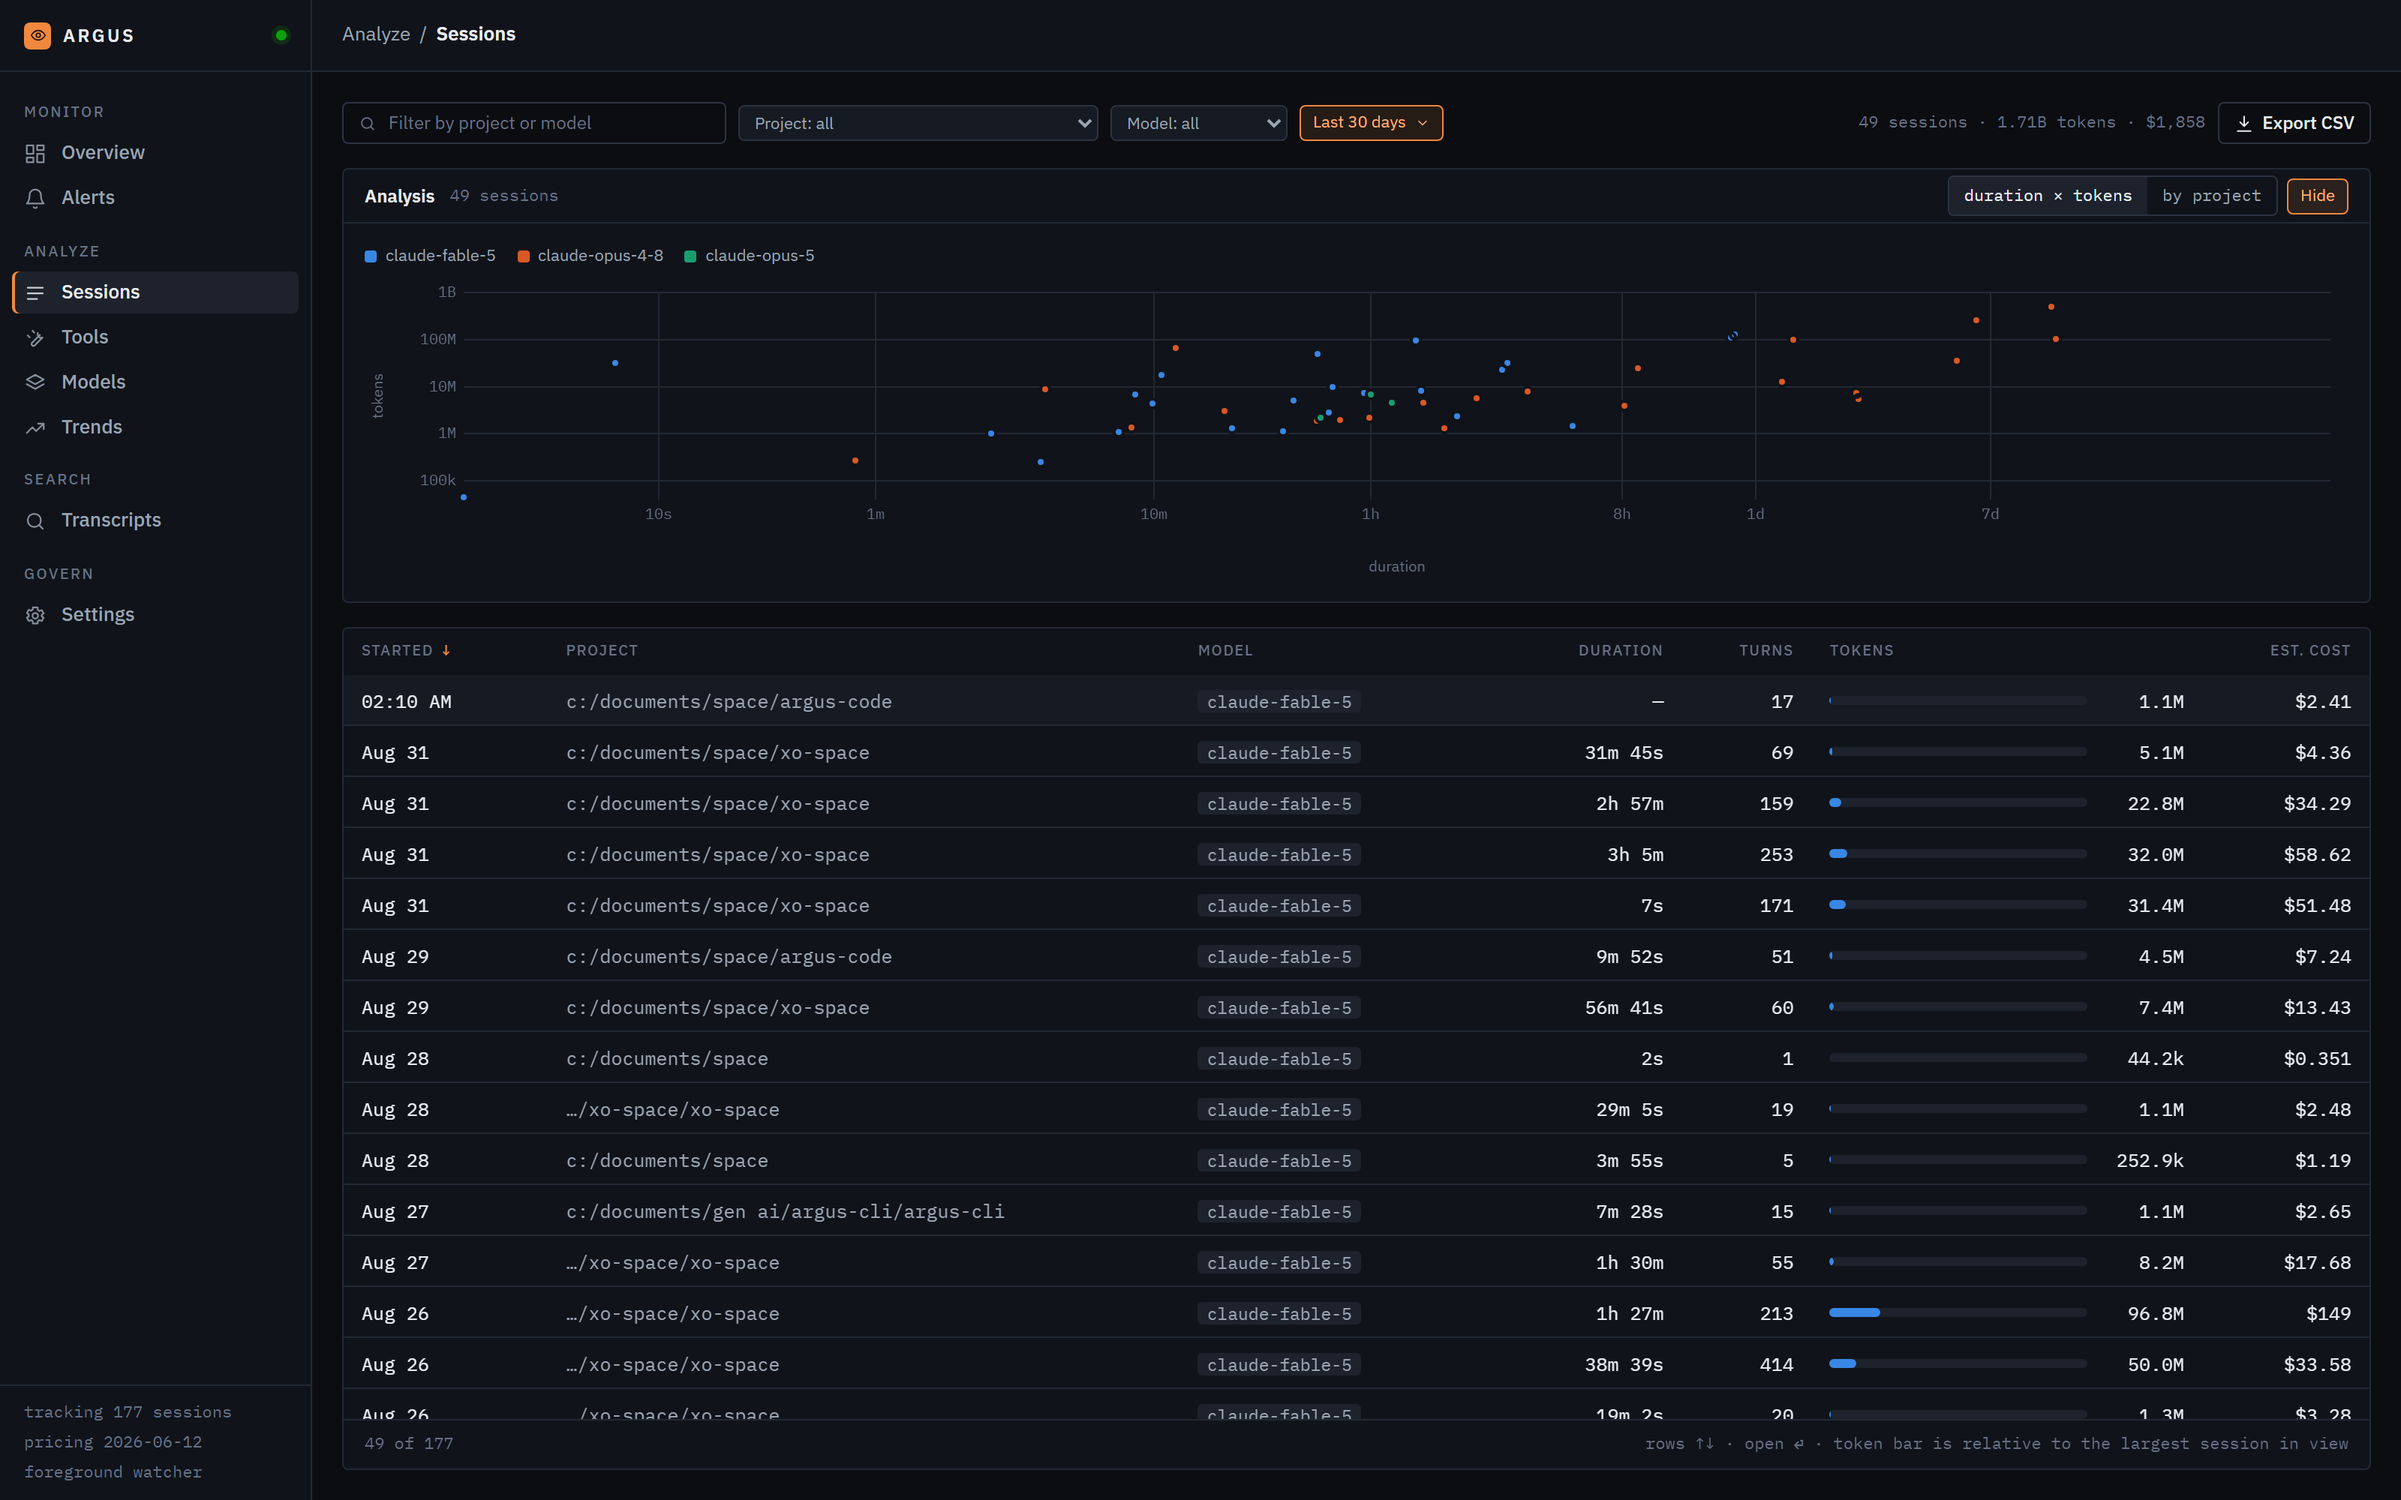
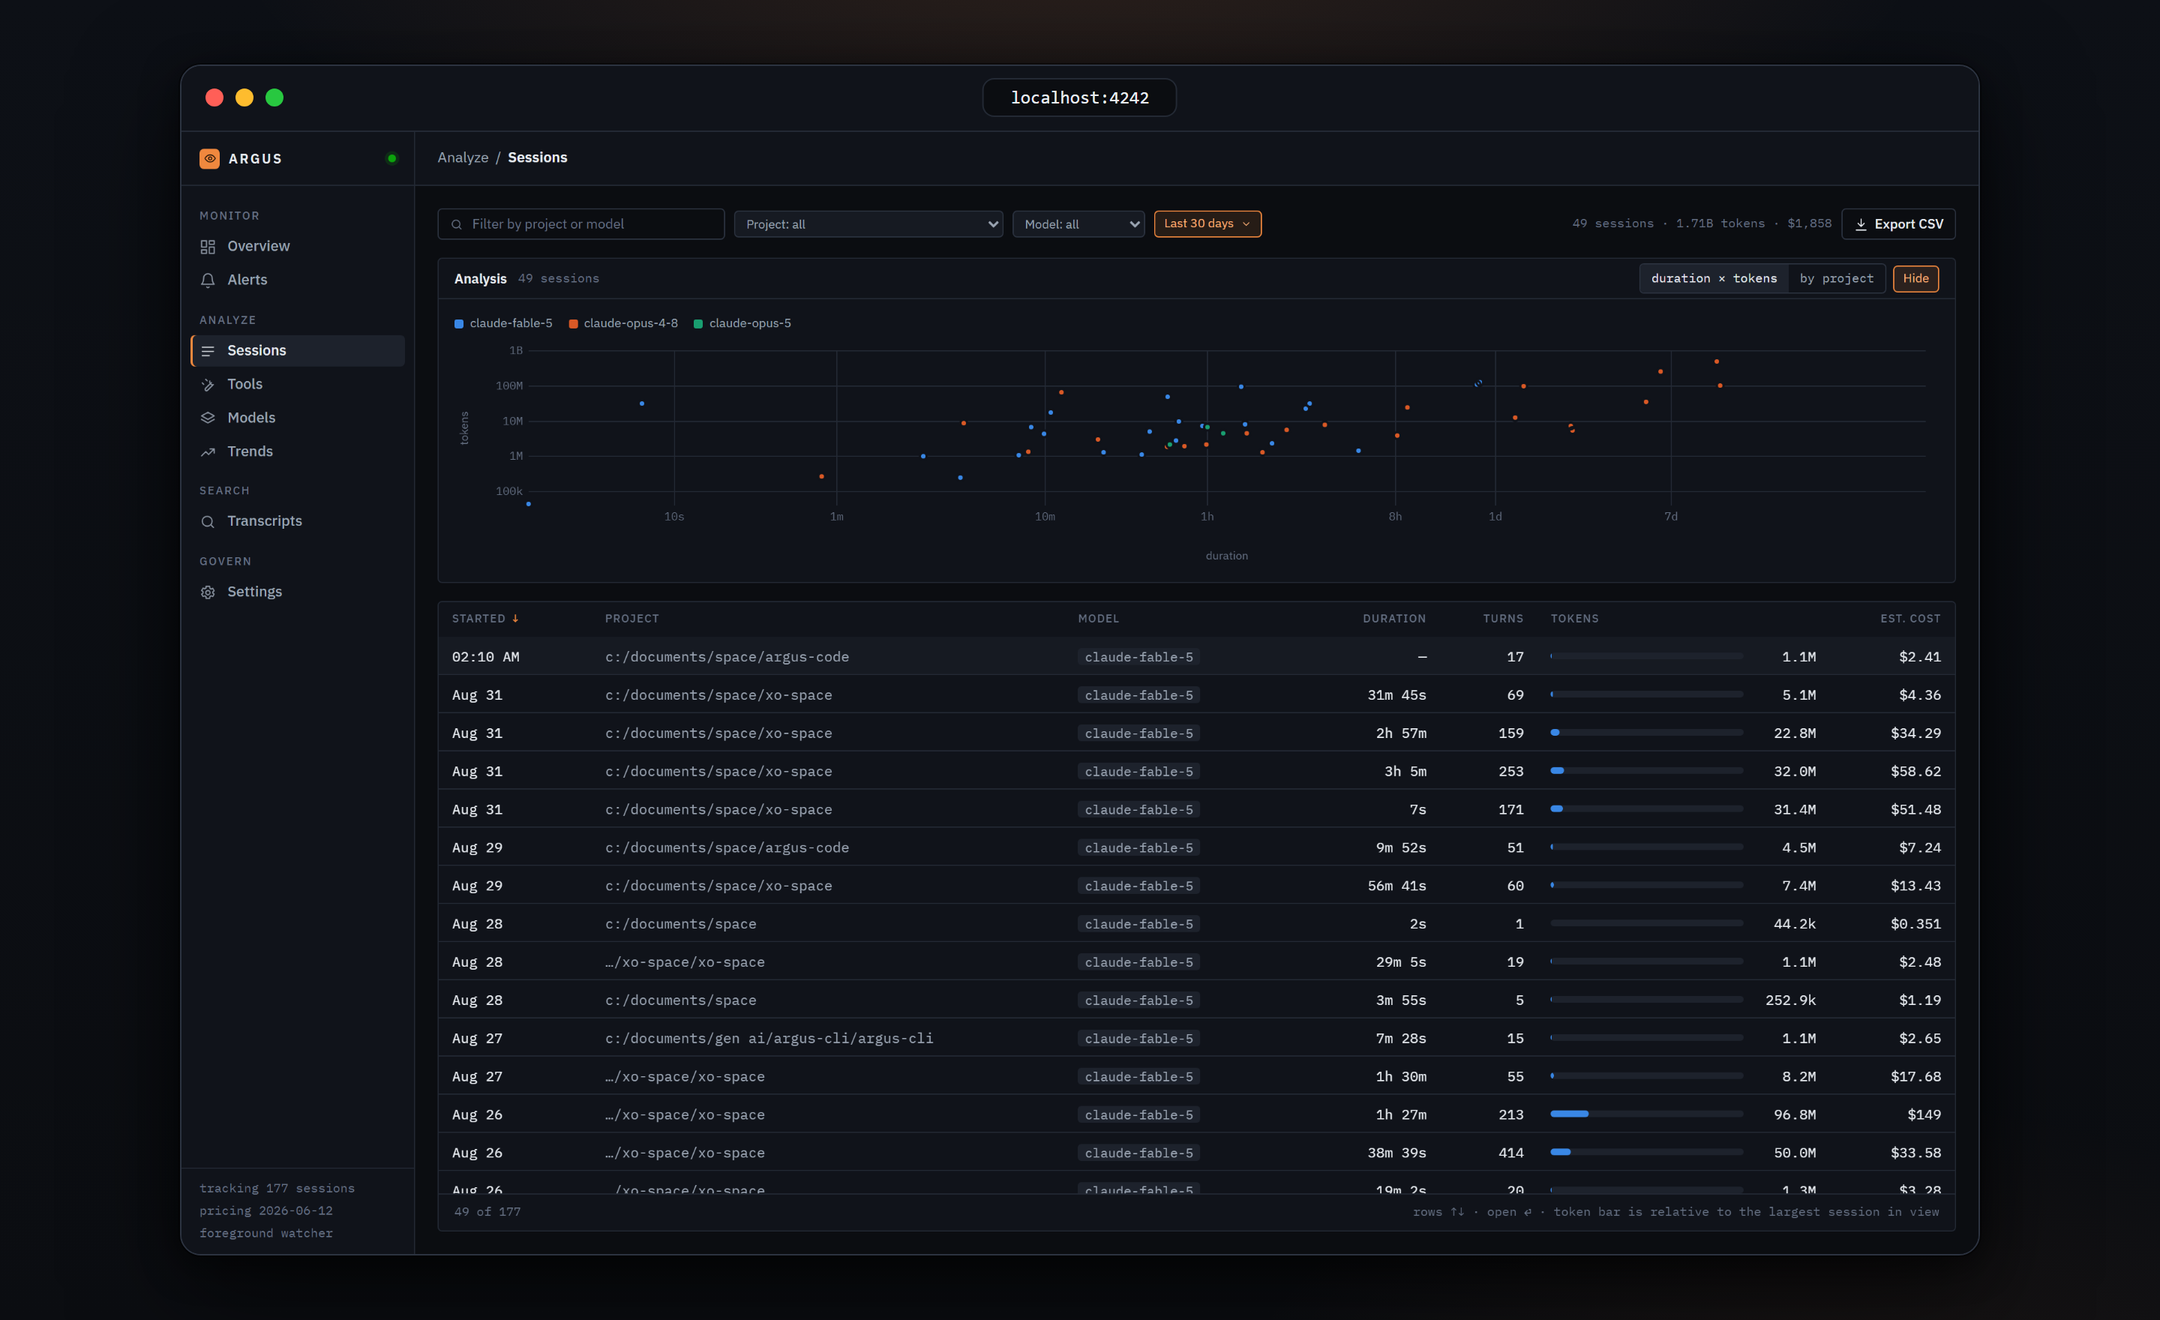
docs: frame all tour screenshots like the hero; new footer line
Re-render the five tour screenshots through the same browser-frame
composition as assets/hero.png (traffic lights, localhost:4242 pill,
brand-gradient backdrop) so every image in the README shares one
visual language. Swap the footer CTA for an Argus Panoptes line.

diff --git a/README.md b/README.md
@@ -301,6 +301,8 @@ tests/                pytest suite, mirrors python/argus/ layout
 
 <p>MIT — see <a href="./LICENSE">LICENSE</a>.</p>
 
-<p><i>If Argus just remembered a session Claude had already forgotten, consider a ⭐</i></p>
+<p><i>Named for Argus Panoptes — the watchman with a hundred eyes, who never slept.</i></p>
+
+<p>If it keeps good watch for you, a ⭐ helps other Claude Code users find it.</p>
 
 </div>
